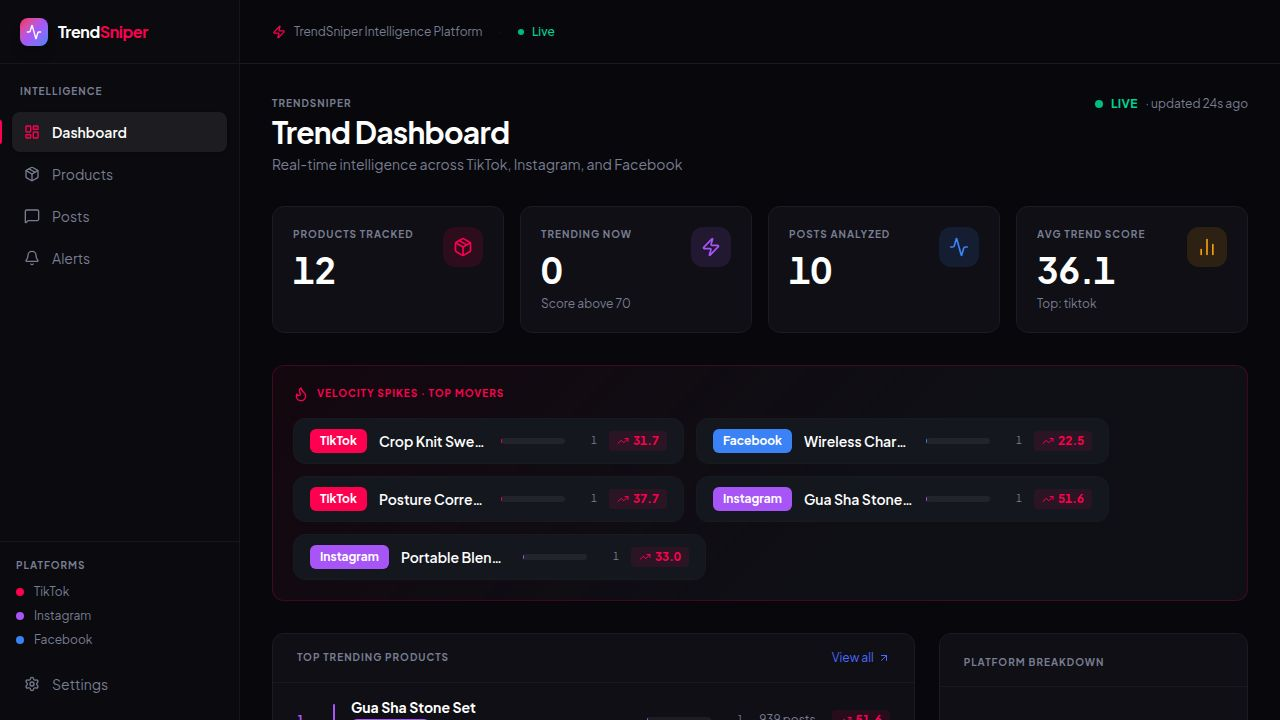
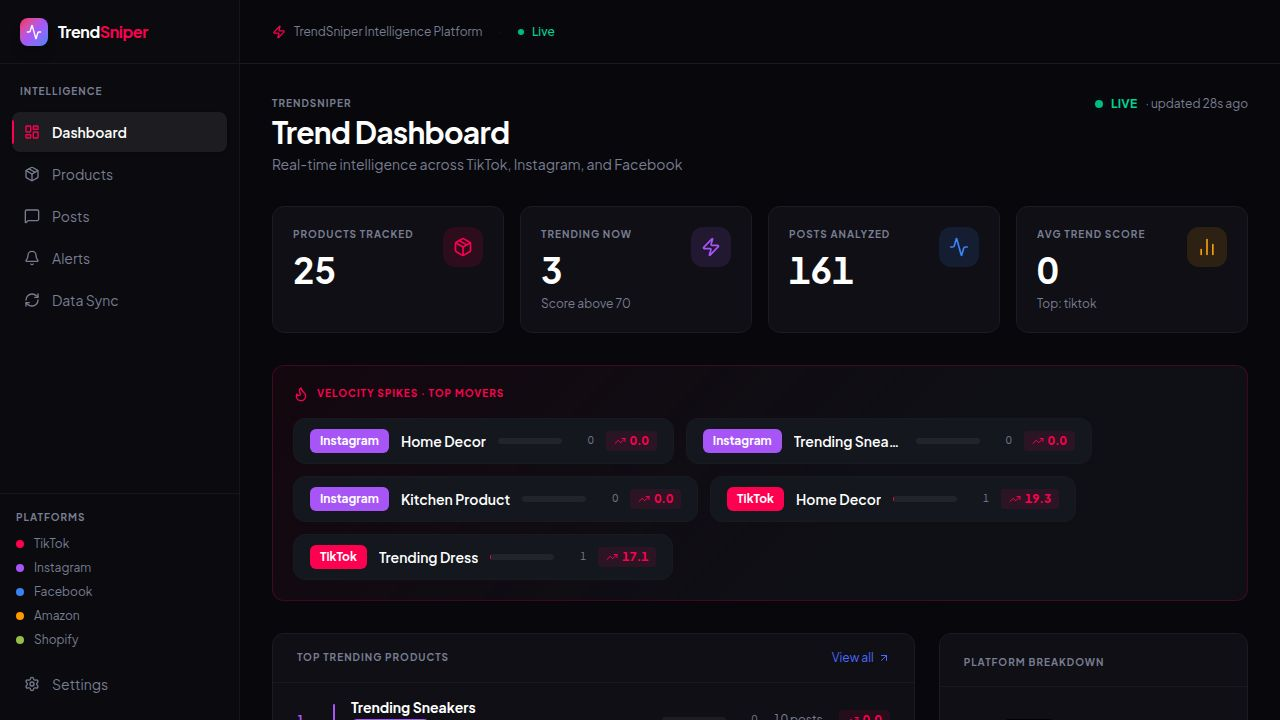
Improve how duplicate posts are handled and processed
Introduce fingerprinting to `ingestionEngine.ts` to identify and deduplicate posts based on normalized content, preventing duplicate entries and improving data integrity.

Replit-Commit-Author: Agent
Replit-Commit-Session-Id: 636a7929-1611-49c2-a9f5-596d80d72b48
Replit-Commit-Checkpoint-Type: full_checkpoint
Replit-Commit-Event-Id: d92eab17-9f7b-4242-8b2a-10c41e62a7d8
Replit-Commit-Screenshot-Url: https://storage.googleapis.com/screenshot-production-us-central1/e62176a6-b52a-4b4c-a5d3-ba40cdbddfe4/636a7929-1611-49c2-a9f5-596d80d72b48/XBIqug0
Replit-Helium-Checkpoint-Created: true

diff --git a/artifacts/api-server/src/lib/ingestionEngine.ts b/artifacts/api-server/src/lib/ingestionEngine.ts
@@ -140,6 +140,26 @@ function refineName(base: string, caption: string | null): string {
   return base;
 }
 
+function normalizeFingerprint(value: string): string {
+  return value
+    .toLowerCase()
+    .replace(/https?:\/\/(www\.)?/g, "")
+    .replace(/[^a-z0-9]+/g, " ")
+    .trim()
+    .replace(/\s+/g, " ");
+}
+
+function getPostFingerprint(post: RawPost): string {
+  const parts = [
+    post.platform,
+    post.productName ?? "",
+    post.videoUrl ?? "",
+    post.caption ?? "",
+    post.creatorUsername ?? "",
+  ];
+  return normalizeFingerprint(parts.join("|"));
+}
+
 // ── Main ingestion ───────────────────────────────────────────────────────────
 
 export interface IngestionResult {
@@ -221,7 +241,7 @@ export async function runIngestion(source: DataSource = "apify"): Promise<Ingest
   logger.info("Ingestion: cleared existing data");
 
   // 3. Group by product signal
-  const productMap = new Map<string, { name: string; category: string; platform: string; posts: RawPost[] }>();
+  const productMap = new Map<string, { name: string; category: string; platform: string; posts: RawPost[]; fingerprints: Set<string> }>();
 
   for (const post of allPosts) {
     const signal = extractProductSignal(post);
@@ -234,9 +254,13 @@ export async function runIngestion(source: DataSource = "apify"): Promise<Ingest
     const key = isEcom ? `${productName}::${post.platform}` : `${productName}::${post.platform}`;
 
     if (!productMap.has(key)) {
-      productMap.set(key, { name: productName, category: signal.category, platform: post.platform, posts: [] });
+      productMap.set(key, { name: productName, category: signal.category, platform: post.platform, posts: [], fingerprints: new Set() });
     }
-    productMap.get(key)!.posts.push(post);
+    const bucket = productMap.get(key)!;
+    const fingerprint = getPostFingerprint(post);
+    if (bucket.fingerprints.has(fingerprint)) continue;
+    bucket.fingerprints.add(fingerprint);
+    bucket.posts.push(post);
   }
 
   if (productMap.size === 0) {
@@ -331,6 +355,7 @@ export async function runIngestion(source: DataSource = "apify"): Promise<Ingest
   // Unmatched social posts (no product signal) go in for browsing
   const unmatched = allPosts
     .filter((p) => p.platform !== "amazon" && p.platform !== "shopify" && !extractProductSignal(p))
+    .filter((post, index, arr) => arr.findIndex((other) => getPostFingerprint(other) === getPostFingerprint(post)) === index)
     .slice(0, 30);
 
   for (const post of unmatched) {